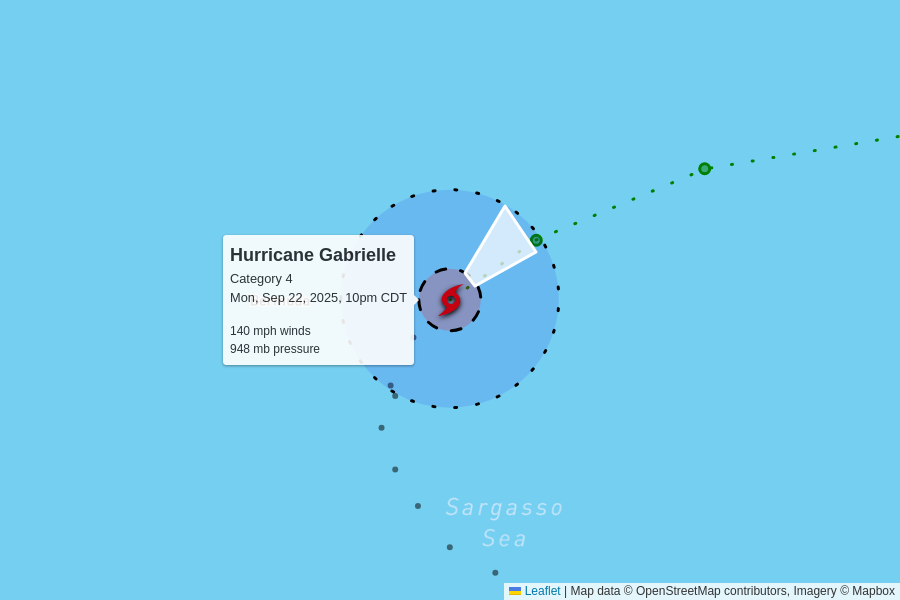
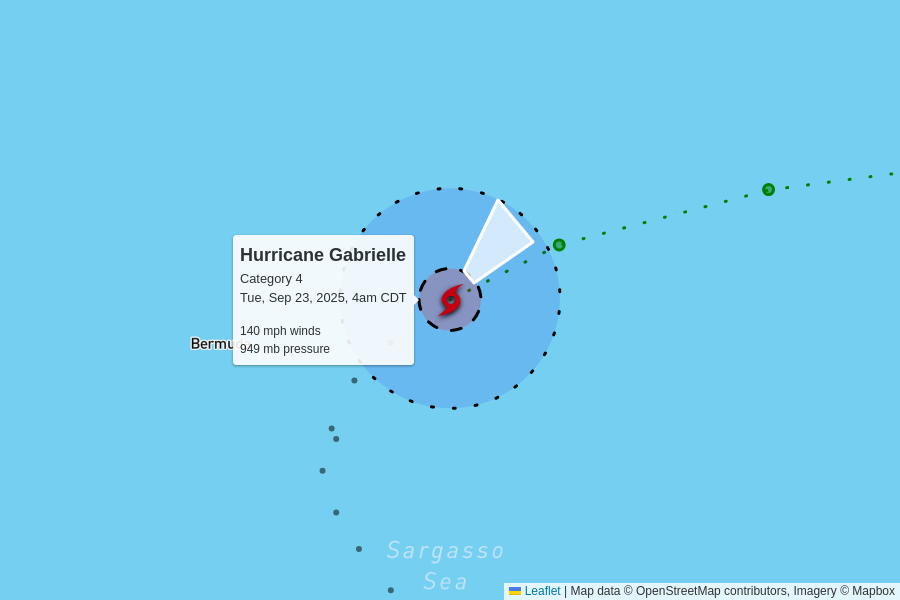
automatic update

diff --git a/docs/index.html b/docs/index.html
@@ -102,7 +102,7 @@
         <td colspan="6" class="storm category-4" >
           <h2>
             Hurricane Gabrielle - Category 4
-            <p class="updated">last updated <span data-time>2025-09-23T03:00:00.000Z</span></p>
+            <p class="updated">last updated <span data-time>2025-09-23T09:00:00.000Z</span></p>
           </h2>
         </td>
       </tr>
@@ -118,11 +118,11 @@
       <tr>
         <td class="spacer"></td>
         <td>140 mph<br>0 mph since last update</td>
-        <td>948 mb<br>0 mb since last update</td>
+        <td>949 mb<br>+1 mb since last update</td>
         <td>
           13 mph to the northeast
           <br/>
-          <span style="display: inline-block; font-size: 1.5em; transform: rotate(50deg);">↑</span>
+          <span style="display: inline-block; font-size: 1.5em; transform: rotate(45deg);">↑</span>
         </td>
         <td><a href="https://raw.githubusercontent.com/mgwalker/atlantic-hurricanes/main/data/csv/AL072025.csv">AL072025.csv</a></td>
         <td><a href="https://www.nhc.noaa.gov/archive/2025/GABRIELLE.shtml?">NHC advisories</a></td>
